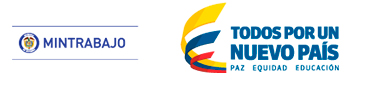
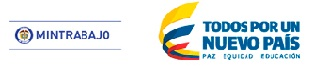
100 %

diff --git a/client/components/navbar/navbar.html b/client/components/navbar/navbar.html
@@ -1,10 +1,10 @@
 <header>
 	<div class="container">
-		<div class="row">
-			<div class="col-xs-12 col-md-8 col-sm-6">
+		<div class="row Header-containerAlingV">
+			<div class="col-xs-12 col-md-8 col-lg-6 col-sm-6">
 				<img class="Image" src="../assets/images/logo.png">
 			</div>
-			 <div class="col-xs-12 col-md-4 col-sm-6 Header-containerAlingV">
+			 <div class="col-xs-12 col-md-4 col-lg-6 col-sm-6">
 			 	<img class="Image2" src="../assets/images/mintrabajo.jpg">			 	
 			 </div>
 		</div>
